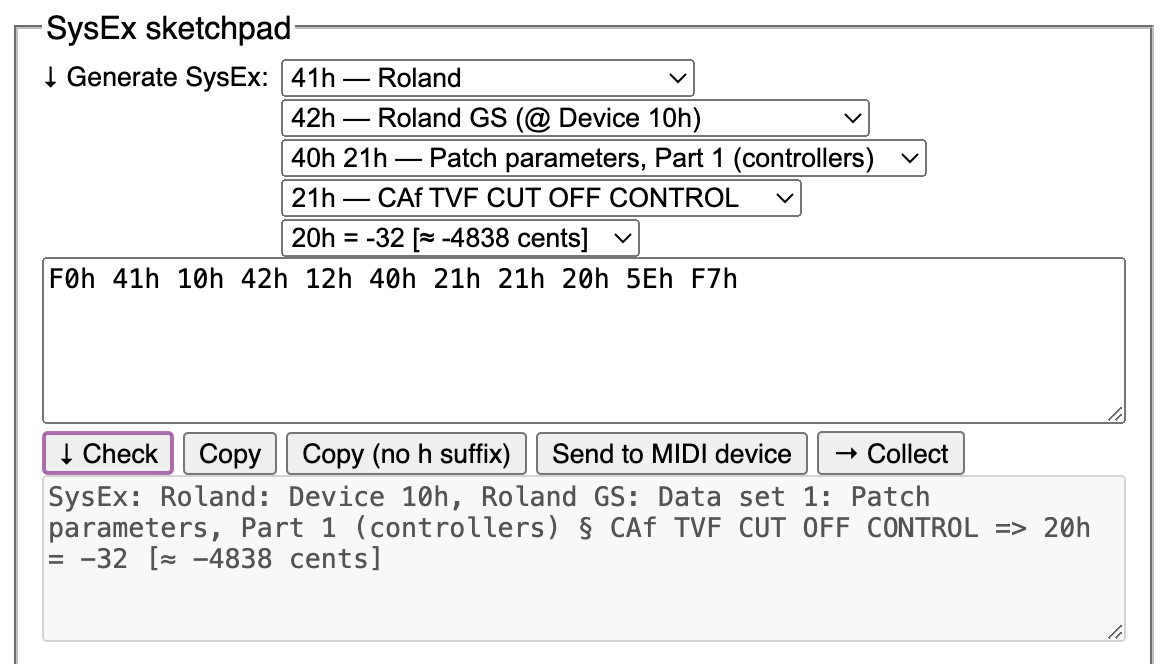
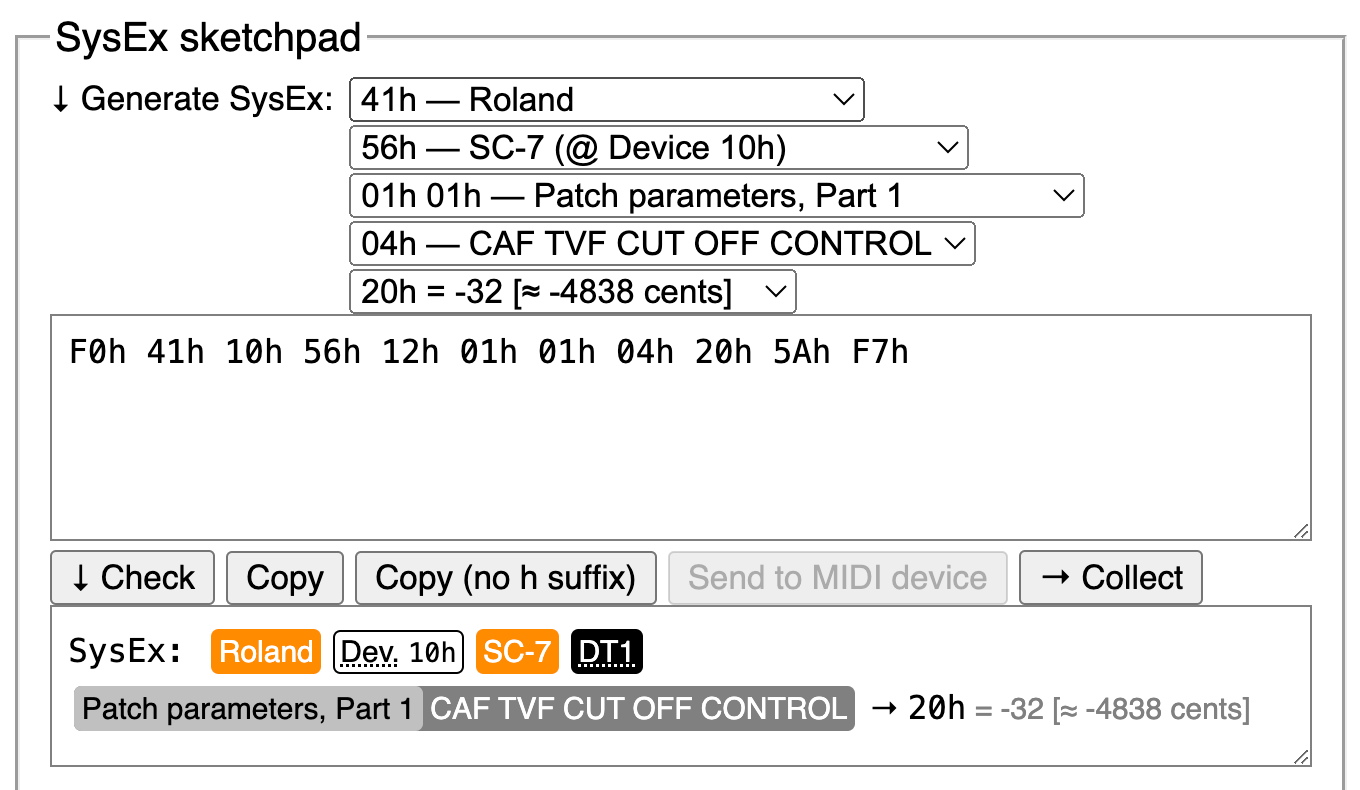
Prepare for v1.1.0 release

Changed region(s): [[0.0, 0.0301, 1.0, 1.0]]

diff --git a/README.md b/README.md
@@ -4,15 +4,16 @@ This is the source code for SoundPalette, a tool for editing MIDI System Exclusi
 
 ※ SoundPalette is not a product of, affiliated with or endorsed by Roland Corporation.
 
-Currently supports (as of v1.0.0):
+Currently supports (as of v1.1.0):
 
 * All Roland SC-7 exclusive messages.
-* Most Roland GS messages supported by Roland SC-55 and Roland SC-55mkII. (Notable absences: drum map editing and voice/partial reserves.)
+* Most Roland GS messages supported by the Roland SC-55 and Roland SC-55mkII. (Notable absences include: partial reserve editing, bulk dumps.)
 
 Future plans:
 
 * More standard MIDI/General MIDI support.
-* More Roland GS device support.
+* More Roland GS device support, starting with the SC-88.
+* RPN/NRPN support.
 * Yamaha XG support.
 
 Here are some things SoundPalette can do:
